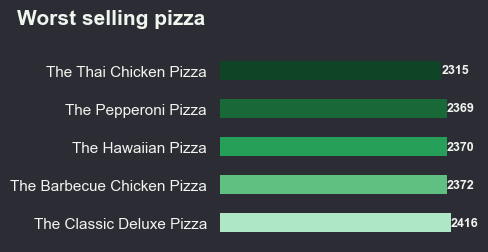
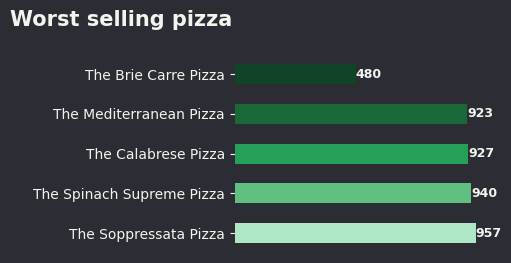
corrected worst selling pizza graph

diff --git a/projects/pizzeria-data-analysis/src/plots.py b/projects/pizzeria-data-analysis/src/plots.py
@@ -165,7 +165,7 @@ plt.xticks([])
 
 
 #Top 5 worst sellers by total pizzas sold
-worst_sellers = pd.read_csv("../data/formated/sale_numbers.csv").head(5).sort_values(by="quantity")
+worst_sellers = pd.read_csv("../data/formated/sale_numbers.csv").tail(5).sort_values(by="quantity")
 BarChart(figsize=(5, 3),
          df=worst_sellers,
          x="quantity",
@@ -175,7 +175,3 @@ BarChart(figsize=(5, 3),
          title="Worst selling pizza", 
          title_x=-0.45)
 plt.xticks([])
-
-
-
-
